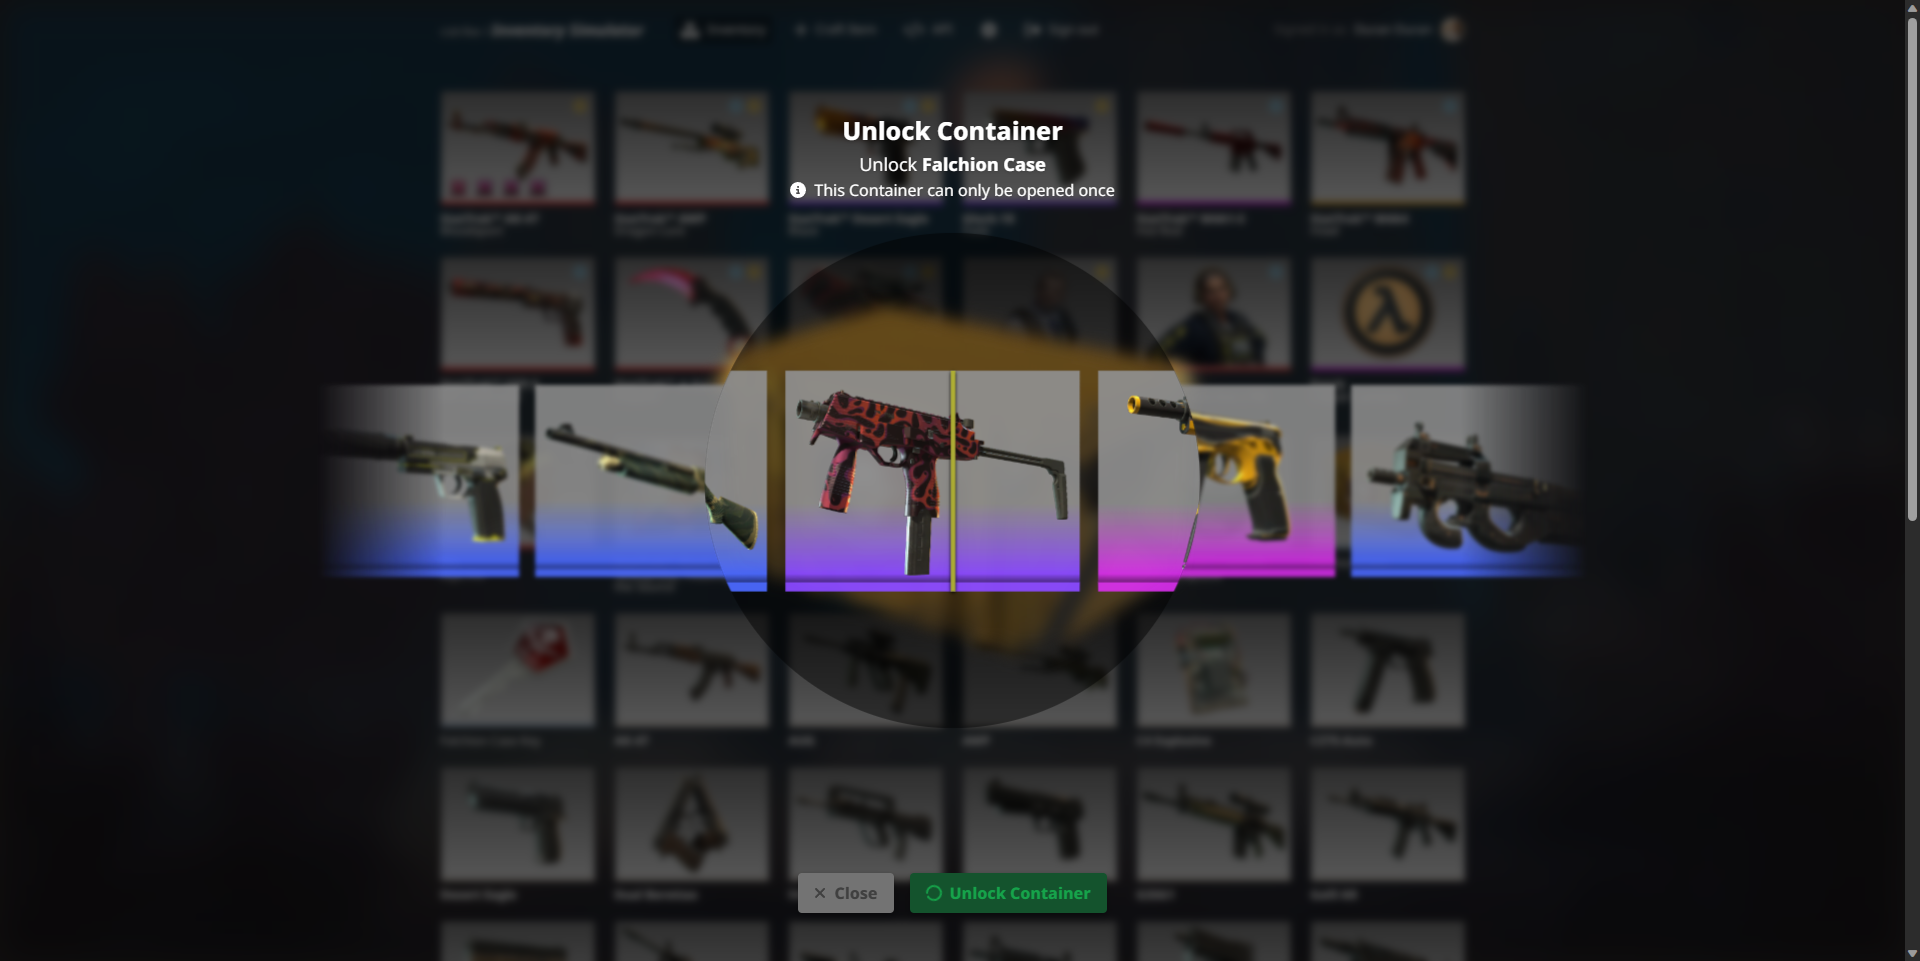
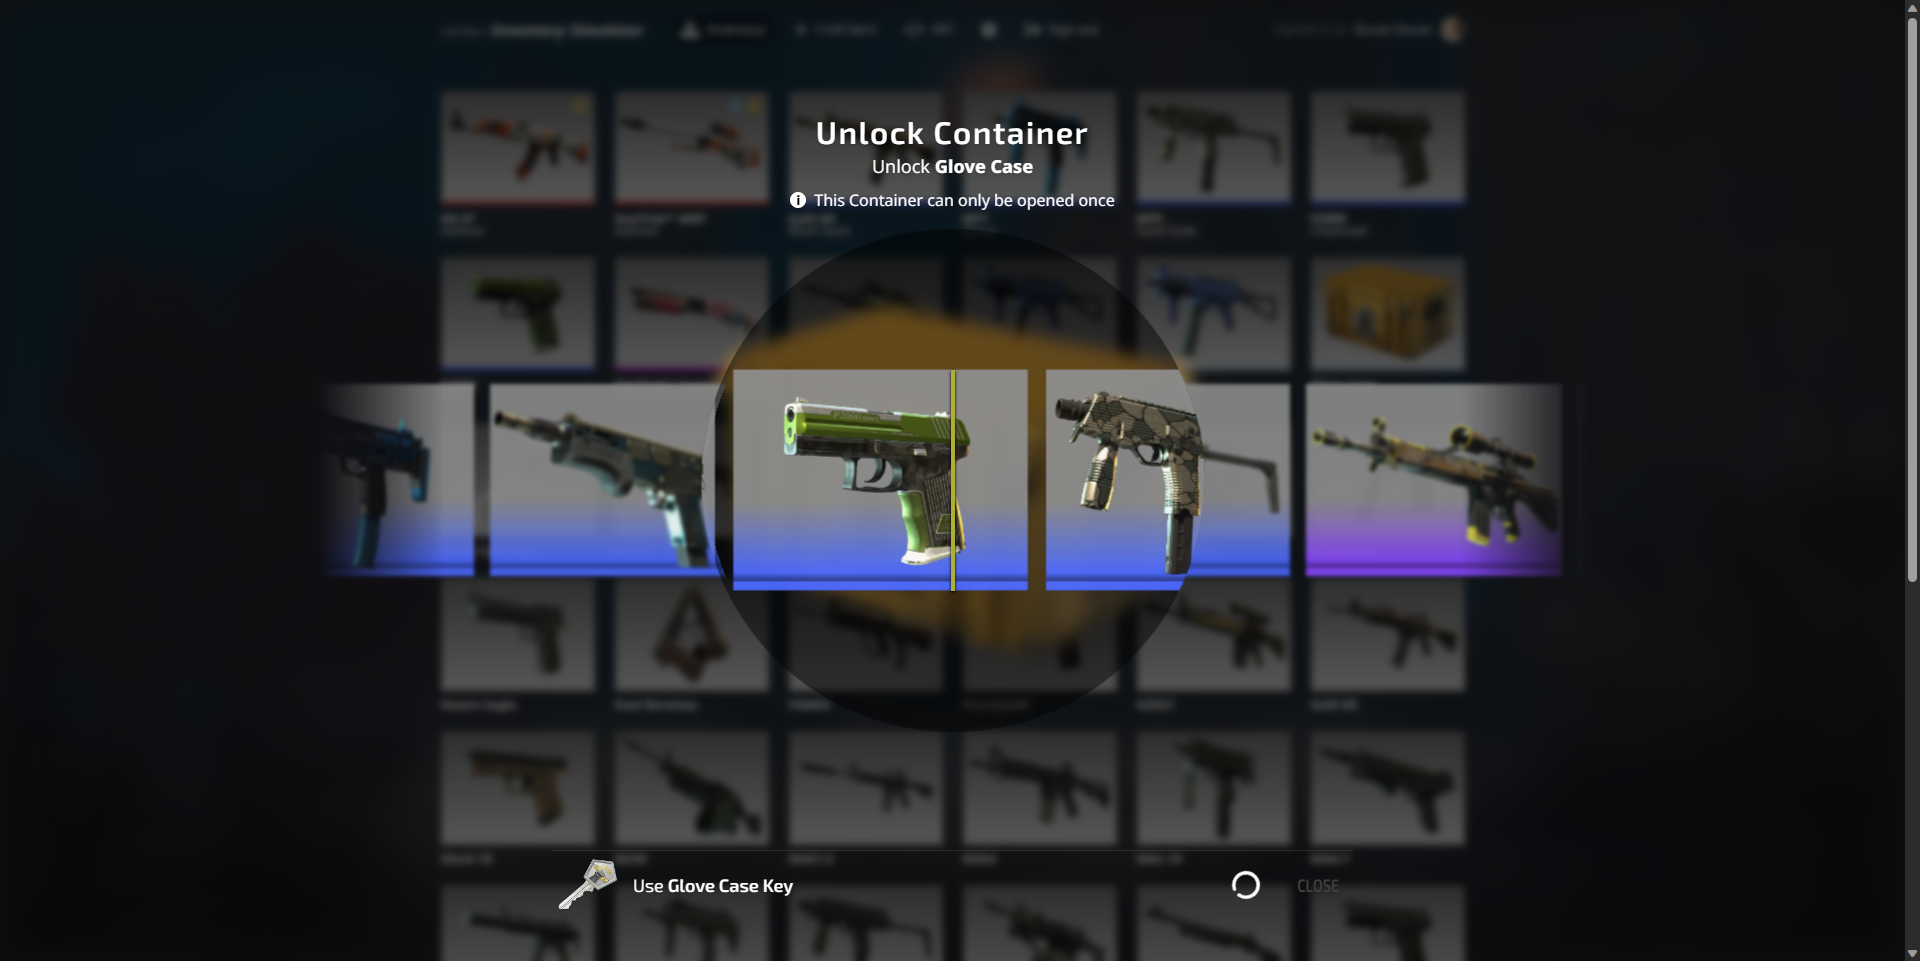
refactor(case-opening): futher visual improvements

diff --git a/app/components/case-opening.tsx b/app/components/case-opening.tsx
@@ -35,6 +35,7 @@ import { CaseOpeningWheel } from "./case-opening-wheel";
 import { CaseSpecialItem } from "./case-special-item";
 import { CSItem } from "./cs-item";
 import { useRootContext } from "./root-context";
+import { InfoIcon } from "./info-icon";
 
 function Layer({
   absolute,
@@ -61,13 +62,15 @@ function Layer({
 export function CaseOpening({
   caseIndex,
   caseItem,
-  onClose,
-  keyIndex
+  keyIndex,
+  keyItem,
+  onClose
 }: {
   caseIndex: number;
   caseItem: CS_Item;
-  onClose(): void;
   keyIndex?: number;
+  keyItem?: CS_Item;
+  onClose(): void;
 }) {
   const { user, setInventory } = useRootContext();
   const translate = useTranslation();
@@ -138,20 +141,8 @@ export function CaseOpening({
             className={clsx("z-50 select-none bg-black/60 backdrop-blur-sm")}
           >
             {unlockedItem && receivedItem ? (
-              <>
-                <Layer
-                  className="[transition:all_cubic-bezier(0.4,0,0.2,1)_250ms]"
-                  style={{ transform: `scale(${rolledScale})` }}
-                >
-                  <img
-                    src={resolveItemImage(
-                      receivedItem,
-                      unlockedItem.attributes.wear
-                    )}
-                    draggable={false}
-                  />
-                </Layer>
-                <div className="fixed left-0 top-28 h-full w-full text-center drop-shadow">
+              <div className="flex h-full w-full items-center justify-center text-center drop-shadow">
+                <div>
                   <div className="px-4 text-2xl font-bold">
                     <span
                       className="border-b-4 pb-1 drop-shadow"
@@ -170,33 +161,45 @@ export function CaseOpening({
                     />
                     <span>{caseItem.name}</span>
                   </div>
-                </div>
-                <div className="fixed bottom-28 left-0 flex w-full items-center justify-center gap-8 text-center drop-shadow">
-                  {unlockedItem.attributes.wear !== undefined && (
-                    <div>
-                      <div className="text-sm font-bold">
-                        {translate("CaseWear")}
-                      </div>
-                      <div>{unlockedItem.attributes.wear}</div>
+                  <img
+                    className="m-auto my-4 [transition:all_cubic-bezier(0.4,0,0.2,1)_250ms]"
+                    src={resolveItemImage(
+                      receivedItem,
+                      unlockedItem.attributes.wear
+                    )}
+                    draggable={false}
+                    style={{ transform: `scale(${rolledScale})` }}
+                  />
+                  <div className="flex w-full items-center justify-between gap-8 border-t border-t-white/10 pt-1.5 text-center drop-shadow">
+                    <div className="flex items-center gap-8">
+                      {unlockedItem.attributes.wear !== undefined && (
+                        <div>
+                          <div className="text-sm font-bold">
+                            {translate("CaseWear")}
+                          </div>
+                          <div>{unlockedItem.attributes.wear}</div>
+                        </div>
+                      )}
+                      {unlockedItem.attributes.wear !== undefined && (
+                        <div>
+                          <div className="text-sm font-bold">
+                            {translate("CaseSeed")}
+                          </div>
+                          <div>{unlockedItem.attributes.seed}</div>
+                        </div>
+                      )}
                     </div>
-                  )}
-                  {unlockedItem.attributes.wear !== undefined && (
-                    <div>
-                      <div className="text-sm font-bold">
-                        {translate("CaseSeed")}
-                      </div>
-                      <div>{unlockedItem.attributes.seed}</div>
-                    </div>
-                  )}
-                  <button
-                    className="flex cursor-default items-center gap-2 rounded bg-white/80 px-4 py-2 font-bold text-neutral-700 drop-shadow-lg transition hover:bg-white disabled:bg-neutral-500 disabled:text-neutral-700"
-                    onClick={onClose}
-                  >
-                    <FontAwesomeIcon icon={faXmark} className="h-4" />
-                    {translate("CaseClose")}
-                  </button>
+                    <button
+                      className="flex h-9 cursor-default items-center gap-2 rounded-sm px-2 font-semibold uppercase text-neutral-100 drop-shadow-lg transition hover:bg-neutral-500/30 hover:text-white disabled:bg-transparent disabled:text-neutral-700"
+                      onClick={onClose}
+                    >
+                      <span className="scale-x-[0.8]">
+                        {translate("CaseClose")}
+                      </span>
+                    </button>
+                  </div>
                 </div>
-              </>
+              </div>
             ) : (
               <>
                 <Layer
@@ -212,14 +215,14 @@ export function CaseOpening({
                   />
                 </Layer>
                 <div className="fixed left-0 top-28 h-full w-full text-center drop-shadow">
-                  <div className="text-2xl font-bold">
+                  <div className="font-display text-3xl font-semibold leading-10 tracking-wider">
                     {translate("CaseUnlockContainer")}
                   </div>
                   <div className="text-lg">
                     {translate("CaseUnlock")} <strong>{caseItem.name}</strong>
                   </div>
-                  <div className="flex items-center justify-center gap-2">
-                    <FontAwesomeIcon icon={faCircleInfo} className="h-4" />
+                  <div className="mt-2 flex items-center justify-center gap-2">
+                    <InfoIcon />
                     <span>{translate("CaseOnceWarn")}</span>
                   </div>
                 </div>
@@ -231,14 +234,16 @@ export function CaseOpening({
                   scale={scale}
                   targetRef={targetRef}
                 />
-                <div
-                  className="fixed bottom-0 left-0 flex w-full justify-center gap-4 pb-28 drop-shadow [transition:all_cubic-bezier(0.4,0,0.2,1)_500ms]"
-                  style={{
-                    transform: `translateY(${contentsTranslateY}px)`
-                  }}
-                >
-                  <div className="m-auto max-w-[1024px] rounded bg-gradient-to-b from-transparent to-white/20 p-2">
-                    <h2 className="my-2">{translate("CaseContainsOne")}</h2>
+                <div className="fixed bottom-12 left-0 w-full">
+                  <div
+                    className="m-auto max-w-[1024px] rounded bg-gradient-to-b from-transparent to-white/20 p-2 [transition:all_cubic-bezier(0.4,0,0.2,1)_500ms]"
+                    style={{
+                      transform: `translateY(${contentsTranslateY}px)`
+                    }}
+                  >
+                    <h2 className="my-2 border-b border-b-white/50 pb-2">
+                      {translate("CaseContainsOne")}
+                    </h2>
                     <div className="flex h-[320px] flex-wrap gap-3 overflow-y-scroll">
                       {[
                         ...CS_listCaseContents(caseItem, true).map(
@@ -250,31 +255,47 @@ export function CaseOpening({
                       ]}
                     </div>
                   </div>
-                </div>
-                <div className="fixed bottom-12 left-0 flex w-full justify-center gap-4 drop-shadow">
-                  <button
-                    disabled={!canRoll}
-                    className="flex cursor-default items-center gap-2 rounded bg-white/80 px-4 py-2 font-bold text-neutral-700 drop-shadow-lg transition hover:bg-white disabled:bg-neutral-500 disabled:text-neutral-700"
-                    onClick={onClose}
-                  >
-                    <FontAwesomeIcon icon={faXmark} className="h-4" />
-                    {translate("CaseClose")}
-                  </button>
-                  <button
-                    onClick={roll}
-                    disabled={!canRoll}
-                    className="flex cursor-default items-center gap-2 rounded bg-green-700/80 px-4 py-2 font-bold text-neutral-200 drop-shadow-lg transition hover:bg-green-600 disabled:bg-green-900 disabled:text-green-600"
-                  >
-                    {canRoll ? (
-                      <FontAwesomeIcon icon={faUnlock} className="h-4" />
-                    ) : (
-                      <FontAwesomeIcon
-                        icon={faCircleNotch}
-                        className="h-4 animate-spin"
-                      />
+                  <div className="m-auto flex min-h-[63px] max-w-[800px] items-center justify-between border-t border-t-white/10 pt-1.5 drop-shadow">
+                    {keyItem !== undefined && (
+                      <div className="font-display flex items-center gap-2 text-lg">
+                        <img
+                          className="h-14"
+                          src={resolveItemImage(keyItem)}
+                          alt={keyItem.name}
+                        />
+                        <span>
+                          {translate("CaseUse")} <strong>{keyItem.name}</strong>
+                        </span>
+                      </div>
                     )}
-                    {translate("CaseUnlockContainer")}
-                  </button>
+                    <div className="font-display flex flex-1 items-center justify-end gap-2 text-lg font-semibold">
+                      {canRoll ? (
+                        <button
+                          onClick={roll}
+                          disabled={!canRoll}
+                          className="flex h-9 cursor-default items-center gap-2 rounded-sm bg-green-700/80 uppercase text-neutral-200 drop-shadow-lg transition hover:bg-green-600 disabled:bg-green-900 disabled:text-green-600"
+                        >
+                          <span className="scale-x-[0.8]">
+                            {translate("CaseUnlockContainer")}
+                          </span>
+                        </button>
+                      ) : (
+                        <FontAwesomeIcon
+                          icon={faCircleNotch}
+                          className="h-7 animate-spin px-4 text-white"
+                        />
+                      )}
+                      <button
+                        disabled={!canRoll}
+                        className="flex h-9 cursor-default items-center gap-2 rounded-sm px-2 uppercase text-neutral-100 drop-shadow-lg transition hover:bg-neutral-500/30 hover:text-white disabled:bg-transparent disabled:text-neutral-700"
+                        onClick={onClose}
+                      >
+                        <span className="scale-x-[0.8]">
+                          {translate("CaseClose")}
+                        </span>
+                      </button>
+                    </div>
+                  </div>
                 </div>
               </>
             )}

diff --git a/app/root.tsx b/app/root.tsx
@@ -28,14 +28,18 @@ import { MAX_INVENTORY_ITEMS } from "./env.server";
 import styles from "./tailwind.css";
 import { getTranslations } from "./translations.server";
 
-const primaryFontUrl =
+const bodyFontUrl =
   "https://fonts.googleapis.com/css2?family=Noto+Sans:ital,wght@0,400;0,800;1,700&display=swap";
+
+const displayFontUrl =
+  "https://fonts.googleapis.com/css2?family=Exo+2:wght@300;400;600&display=swap";
 
 export const links: LinksFunction = () => [
   ...(cssBundleHref ? [{ rel: "stylesheet", href: cssBundleHref }] : []),
   { rel: "preconnect", href: "https://fonts.googleapis.com" },
   { rel: "preconnect", href: "https://fonts.gstatic.com" },
-  { rel: "stylesheet", href: primaryFontUrl },
+  { rel: "stylesheet", href: bodyFontUrl },
+  { rel: "stylesheet", href: displayFontUrl },
   { rel: "stylesheet", href: styles }
 ];
 

diff --git a/app/components/inventory.tsx b/app/components/inventory.tsx
@@ -63,6 +63,7 @@ export function Inventory() {
   const [unlockCase, setUnlockCase] = useState<{
     caseIndex: number;
     caseItem: CS_Item;
+    keyItem?: CS_Item;
     keyIndex?: number;
   }>();
   const [renameItem, setRenameItem] = useState<{
@@ -129,7 +130,9 @@ export function Inventory() {
           caseItem:
             selectedItem.type === "case" ? selectedItem : useItemAction.item,
           caseIndex: selectedItem.type === "case" ? index : useItemAction.index,
-          keyIndex: selectedItem.type === "key" ? index : useItemAction.index
+          keyIndex: selectedItem.type === "key" ? index : useItemAction.index,
+          keyItem:
+            selectedItem.type === "key" ? selectedItem : useItemAction.item
         });
       }
       if (

diff --git a/app/components/info-icon.tsx b/app/components/info-icon.tsx
@@ -1,0 +1,12 @@
+/*---------------------------------------------------------------------------------------------
+ *  Copyright (c) Ian Lucas. All rights reserved.
+ *  Licensed under the MIT License. See License.txt in the project root for license information.
+ *--------------------------------------------------------------------------------------------*/
+
+export function InfoIcon() {
+  return (
+    <span className="h-4 w-4 rounded-full bg-white text-sm font-bold leading-4 text-black">
+      i
+    </span>
+  );
+}

diff --git a/app/translations/brazilian.ts b/app/translations/brazilian.ts
@@ -69,6 +69,7 @@ export const brazilian = {
   CaseClose: "Fechar",
   CaseRareItem: "★ Item raro e especial ★",
   CaseContainsOne: "Contém um dos seguintes itens:",
+  CaseUse: "Usar",
   RenameUse: "Usar Etiqueta de Nome",
   RenameEnterName: "Inserir novo nome para:",
   RenameWarn: "Etiquetas de Nome só podem ser usadas uma vez",

diff --git a/app/translations/english.ts b/app/translations/english.ts
@@ -82,6 +82,7 @@ export const english = {
   CaseWear: "WEAR",
   CaseRareItem: "★ Rare Special Item ★",
   CaseContainsOne: "Contains one of the following:",
+  CaseUse: "Use",
   RenameUse: "Use Name Tag",
   RenameEnterName: "Enter a new name for:",
   RenameWarn: "A Name Tag can only be used once",

diff --git a/tailwind.config.ts b/tailwind.config.ts
@@ -10,6 +10,7 @@ export default {
   theme: {
     extend: {
       fontFamily: {
+        display: ["'Exo 2'", "sans-serif"],
         sans: ["'Noto Sans'", "sans-serif"],
         mono: [
           "ui-monospace",
